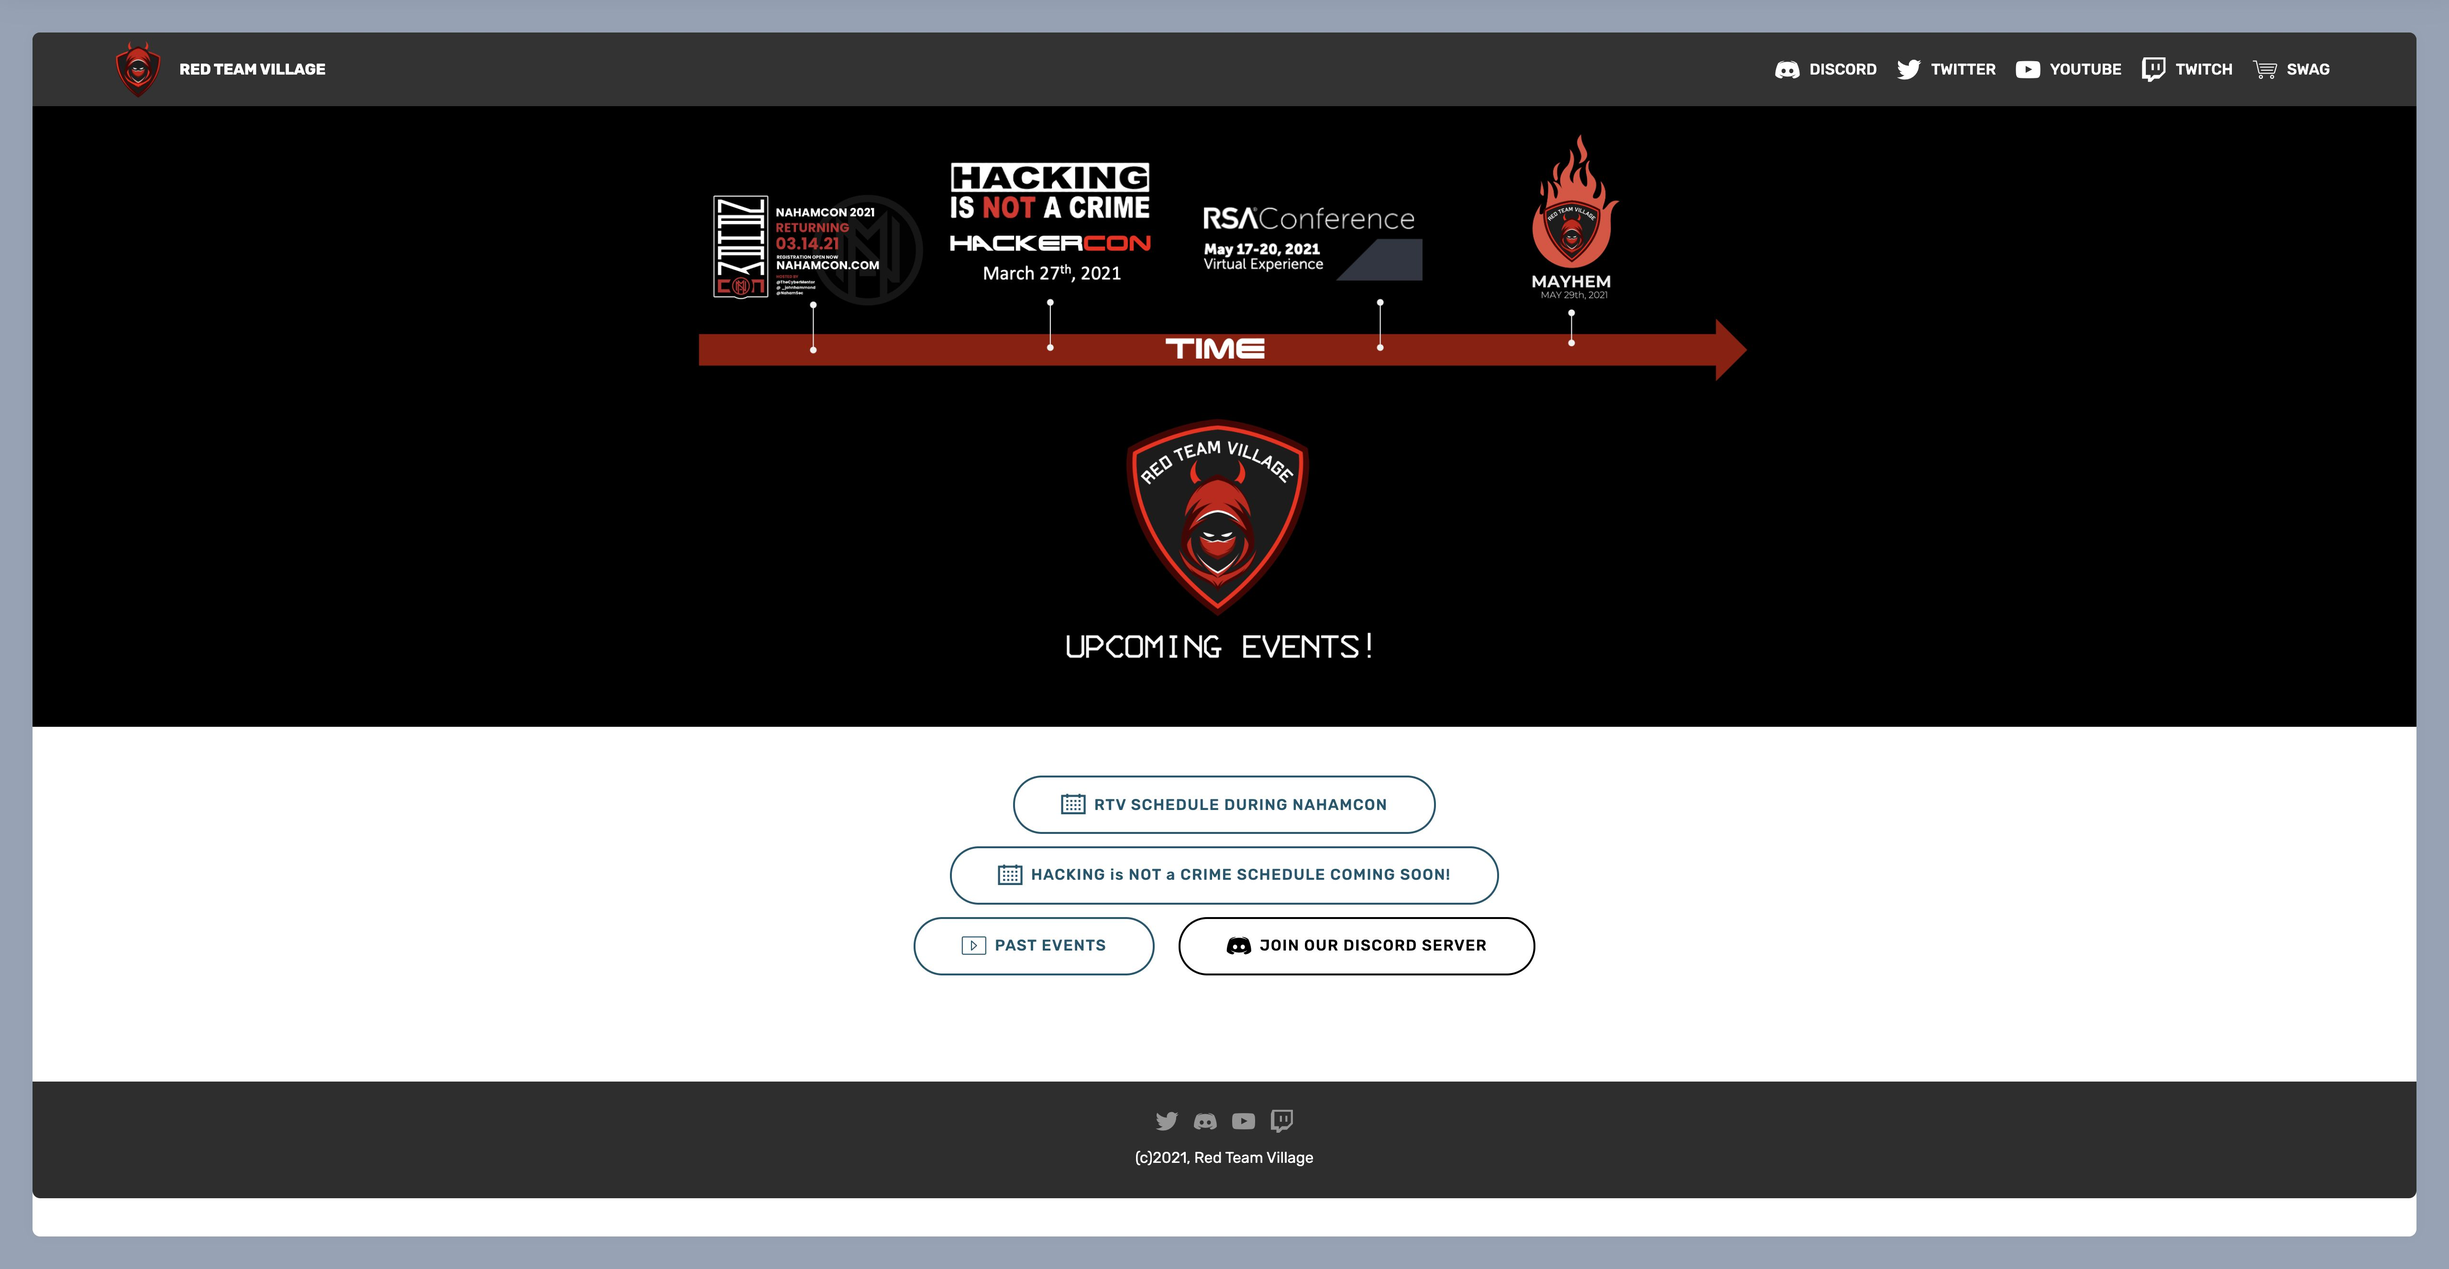
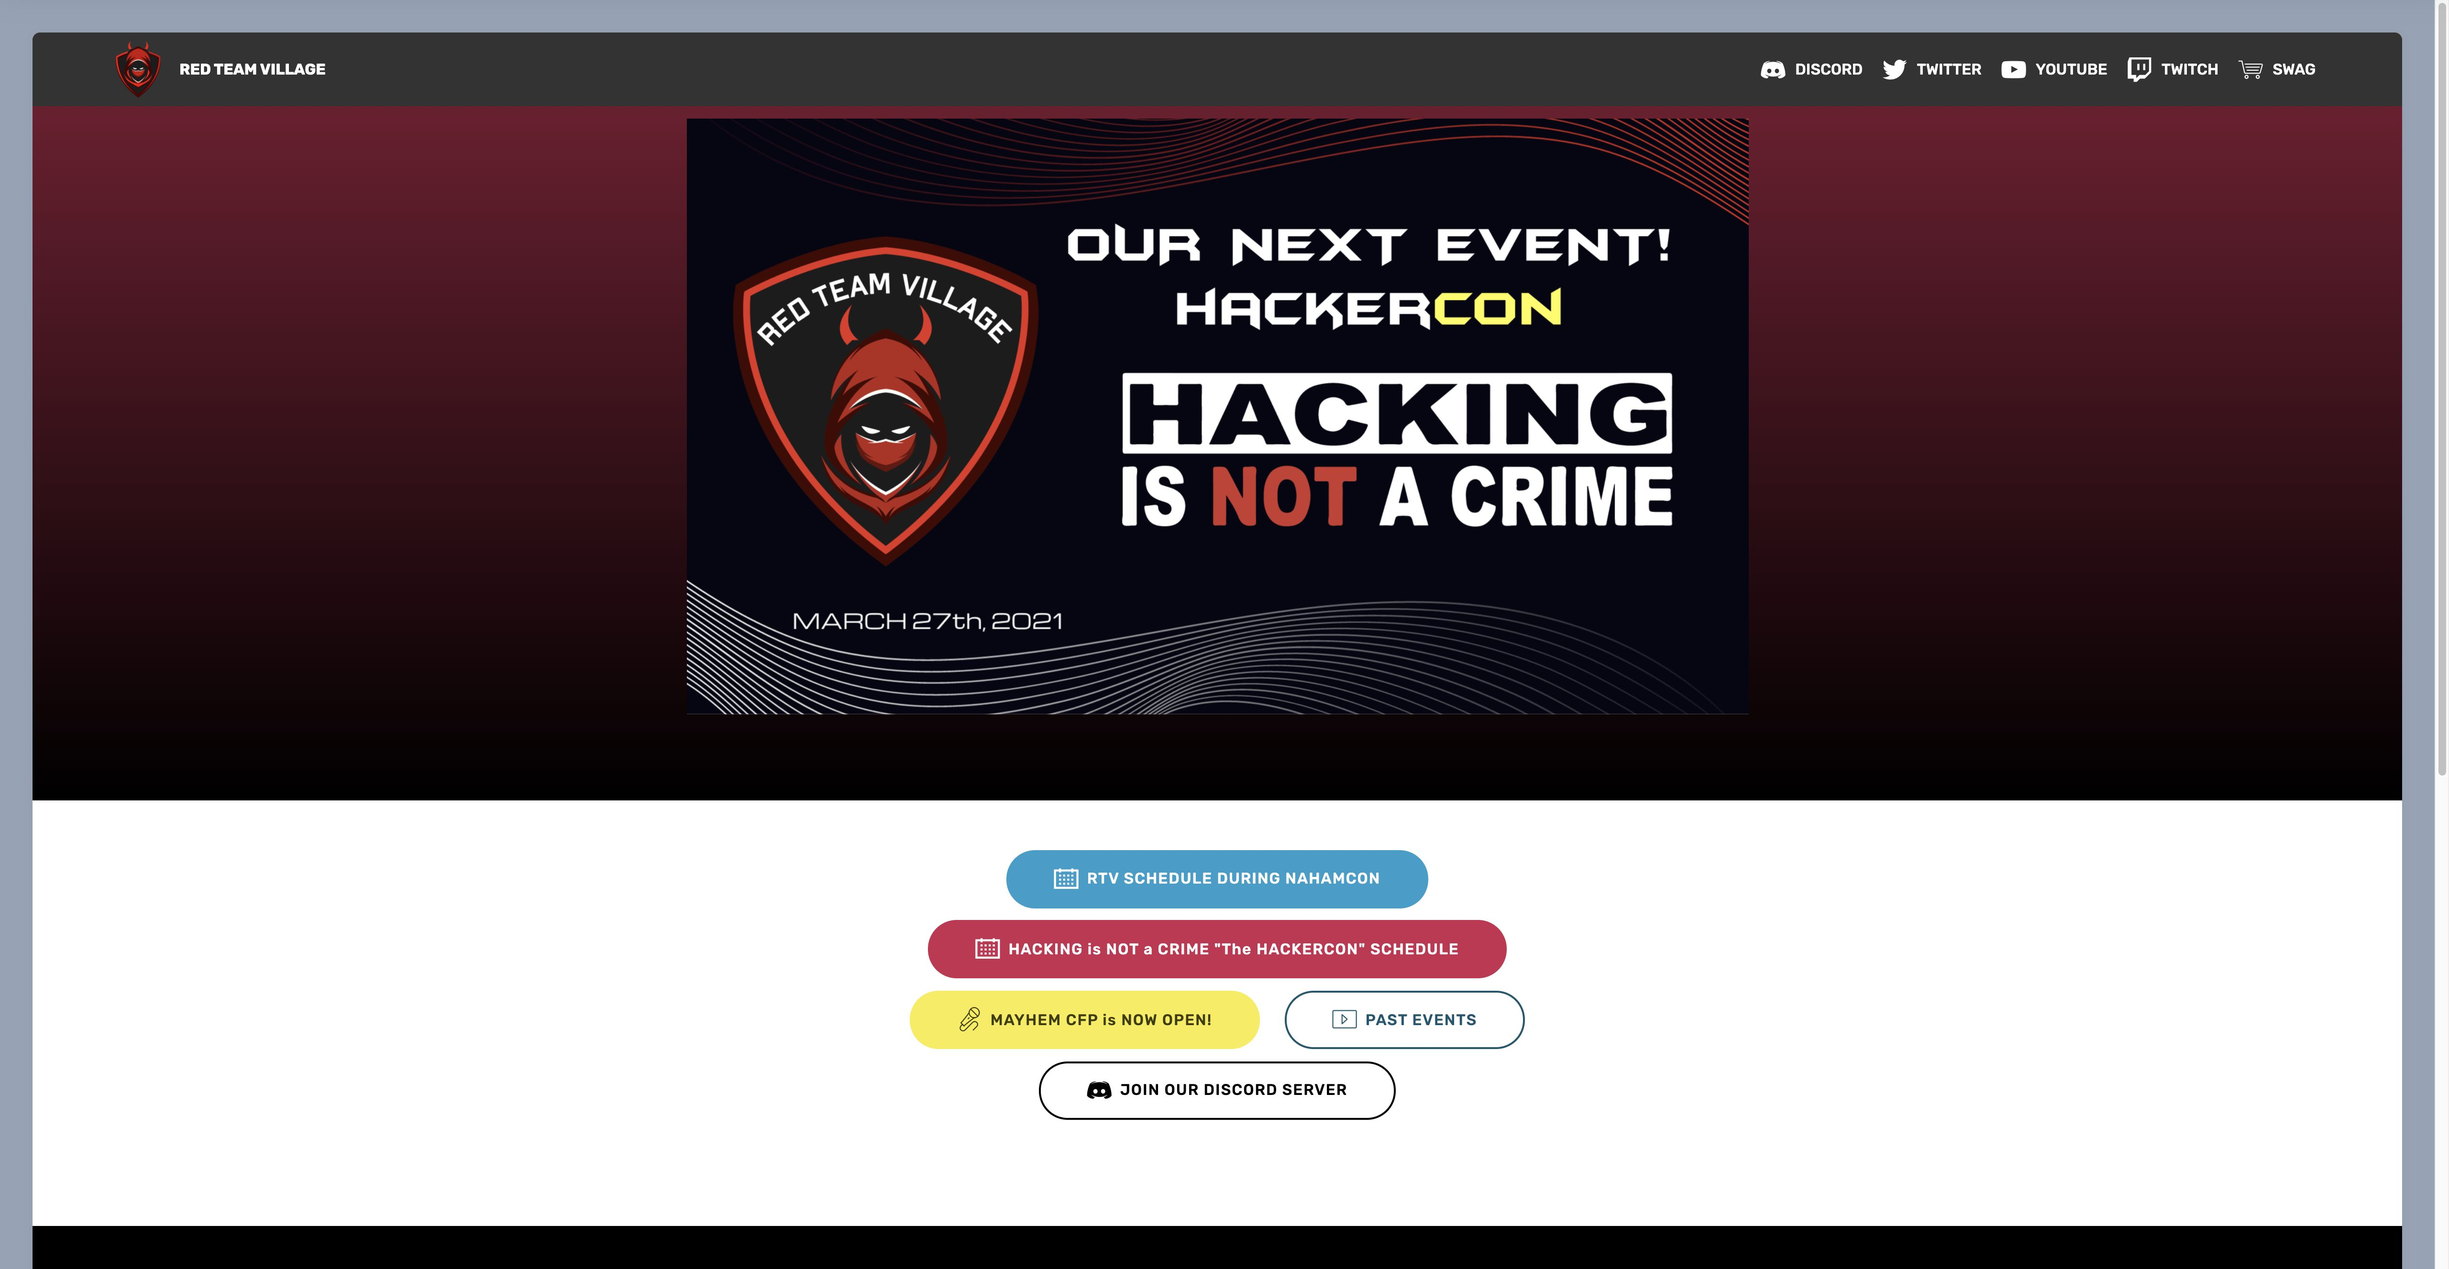
updating site

diff --git a/index.html b/index.html
@@ -89,7 +89,7 @@
     <div class="container">
         <div class="media-container-row title">
             <div class="col-12 col-md-8">
-                <div class="mbr-section-btn align-center"><a class="btn btn-primary display-4" href="nahamcon.html"><span class="mobi-mbri mobi-mbri-calendar mbr-iconfont mbr-iconfont-btn"></span>RTV SCHEDULE DURING NAHAMCON</a> <a class="btn btn-secondary display-4" href="hackercon.html"><span class="mobi-mbri mobi-mbri-calendar mbr-iconfont mbr-iconfont-btn"></span>HACKING is NOT a CRIME "The HACKERCON" SCHEDULE</a> <a class="btn btn-success display-4" href="https://redteamvillage.io/cfp" target="_blank"><span class="icon54-v1-microphone-1 mbr-iconfont mbr-iconfont-btn"></span>MAYHEM CFP is NOW OPEN!</a> <a class="btn btn-primary-outline display-4" href="past-events.html"><span class="mbri-video mbr-iconfont mbr-iconfont-btn"></span>PAST EVENTS</a>
+                <div class="mbr-section-btn align-center"><a class="btn btn-secondary display-4" href="hackercon.html"><span class="mobi-mbri mobi-mbri-calendar mbr-iconfont mbr-iconfont-btn"></span>HACKING is NOT a CRIME "The HACKERCON" SCHEDULE</a> <a class="btn btn-success display-4" href="https://redteamvillage.io/cfp" target="_blank"><span class="icon54-v1-microphone-1 mbr-iconfont mbr-iconfont-btn"></span>MAYHEM CFP is NOW OPEN!</a> <a class="btn btn-primary-outline display-4" href="https://www.youtube.com/c/RedTeamVillage/playlists" target="_blank"><span class="mbri-video mbr-iconfont mbr-iconfont-btn"></span>PAST EVENTS</a>
                     <a class="btn btn-black-outline display-4" href="https://discord.gg/redteamvillage" target="_blank"><span class="socicon socicon-discord mbr-iconfont mbr-iconfont-btn"></span>JOIN OUR DISCORD SERVER</a></div>
             </div>
         </div>
@@ -148,7 +148,7 @@
             </div>
         </div>
     </div>
-</section><section style="background-color: #fff; font-family: -apple-system, BlinkMacSystemFont, 'Segoe UI', 'Roboto', 'Helvetica Neue', Arial, sans-serif; color:#aaa; font-size:12px; padding: 0; align-items: center; display: flex;"><a href="https://mobirise.site/o" style="flex: 1 1; height: 3rem; padding-left: 1rem;"></a><p style="flex: 0 0 auto; margin:0; padding-right:1rem;"><a href="https://mobirise.site/t" style="color:#aaa;">Built</a> with Mobirise css theme</p></section><script src="assets/web/assets/jquery/jquery.min.js"></script>  <script src="assets/popper/popper.min.js"></script>  <script src="assets/bootstrap/js/bootstrap.min.js"></script>  <script src="assets/tether/tether.min.js"></script>  <script src="assets/smoothscroll/smooth-scroll.js"></script>  <script src="assets/dropdown/js/nav-dropdown.js"></script>  <script src="assets/dropdown/js/navbar-dropdown.js"></script>  <script src="assets/touchswipe/jquery.touch-swipe.min.js"></script>  <script src="assets/theme/js/script.js"></script>  
+</section><section style="background-color: #fff; font-family: -apple-system, BlinkMacSystemFont, 'Segoe UI', 'Roboto', 'Helvetica Neue', Arial, sans-serif; color:#aaa; font-size:12px; padding: 0; align-items: center; display: flex;"><a href="https://mobirise.site/c" style="flex: 1 1; height: 3rem; padding-left: 1rem;"></a><p style="flex: 0 0 auto; margin:0; padding-right:1rem;"><a href="https://mobirise.site/q" style="color:#aaa;">This page</a> was started with Mobirise website template</p></section><script src="assets/web/assets/jquery/jquery.min.js"></script>  <script src="assets/popper/popper.min.js"></script>  <script src="assets/bootstrap/js/bootstrap.min.js"></script>  <script src="assets/tether/tether.min.js"></script>  <script src="assets/smoothscroll/smooth-scroll.js"></script>  <script src="assets/dropdown/js/nav-dropdown.js"></script>  <script src="assets/dropdown/js/navbar-dropdown.js"></script>  <script src="assets/touchswipe/jquery.touch-swipe.min.js"></script>  <script src="assets/theme/js/script.js"></script>  
   
   
 </body>

diff --git a/nahamcon.html b/nahamcon.html
@@ -210,7 +210,7 @@
             </div>
         </div>
     </div>
-</section><section style="background-color: #fff; font-family: -apple-system, BlinkMacSystemFont, 'Segoe UI', 'Roboto', 'Helvetica Neue', Arial, sans-serif; color:#aaa; font-size:12px; padding: 0; align-items: center; display: flex;"><a href="https://mobirise.site/r" style="flex: 1 1; height: 3rem; padding-left: 1rem;"></a><p style="flex: 0 0 auto; margin:0; padding-right:1rem;">Design a free website with <a href="https://mobirise.site/z" style="color:#aaa;">Mobirise</a></p></section><script src="assets/web/assets/jquery/jquery.min.js"></script>  <script src="assets/popper/popper.min.js"></script>  <script src="assets/bootstrap/js/bootstrap.min.js"></script>  <script src="assets/tether/tether.min.js"></script>  <script src="assets/smoothscroll/smooth-scroll.js"></script>  <script src="assets/dropdown/js/nav-dropdown.js"></script>  <script src="assets/dropdown/js/navbar-dropdown.js"></script>  <script src="assets/touchswipe/jquery.touch-swipe.min.js"></script>  <script src="assets/datatables/jquery.data-tables.min.js"></script>  <script src="assets/datatables/data-tables.bootstrap4.min.js"></script>  <script src="assets/theme/js/script.js"></script>  
+</section><section style="background-color: #fff; font-family: -apple-system, BlinkMacSystemFont, 'Segoe UI', 'Roboto', 'Helvetica Neue', Arial, sans-serif; color:#aaa; font-size:12px; padding: 0; align-items: center; display: flex;"><a href="https://mobirise.site/s" style="flex: 1 1; height: 3rem; padding-left: 1rem;"></a><p style="flex: 0 0 auto; margin:0; padding-right:1rem;">Make a website - <a href="https://mobirise.site/v" style="color:#aaa;">Find more</a></p></section><script src="assets/web/assets/jquery/jquery.min.js"></script>  <script src="assets/popper/popper.min.js"></script>  <script src="assets/bootstrap/js/bootstrap.min.js"></script>  <script src="assets/tether/tether.min.js"></script>  <script src="assets/smoothscroll/smooth-scroll.js"></script>  <script src="assets/dropdown/js/nav-dropdown.js"></script>  <script src="assets/dropdown/js/navbar-dropdown.js"></script>  <script src="assets/touchswipe/jquery.touch-swipe.min.js"></script>  <script src="assets/datatables/jquery.data-tables.min.js"></script>  <script src="assets/datatables/data-tables.bootstrap4.min.js"></script>  <script src="assets/theme/js/script.js"></script>  
   
   
 </body>

diff --git a/hackercon.html b/hackercon.html
@@ -271,7 +271,7 @@
             </div>
         </div>
     </div>
-</section><section style="background-color: #fff; font-family: -apple-system, BlinkMacSystemFont, 'Segoe UI', 'Roboto', 'Helvetica Neue', Arial, sans-serif; color:#aaa; font-size:12px; padding: 0; align-items: center; display: flex;"><a href="https://mobirise.site/f" style="flex: 1 1; height: 3rem; padding-left: 1rem;"></a><p style="flex: 0 0 auto; margin:0; padding-right:1rem;">Built with <a href="https://mobirise.site/a" style="color:#aaa;">Mobirise</a></p></section><script src="assets/web/assets/jquery/jquery.min.js"></script>  <script src="assets/popper/popper.min.js"></script>  <script src="assets/bootstrap/js/bootstrap.min.js"></script>  <script src="assets/tether/tether.min.js"></script>  <script src="assets/smoothscroll/smooth-scroll.js"></script>  <script src="assets/dropdown/js/nav-dropdown.js"></script>  <script src="assets/dropdown/js/navbar-dropdown.js"></script>  <script src="assets/touchswipe/jquery.touch-swipe.min.js"></script>  <script src="assets/datatables/jquery.data-tables.min.js"></script>  <script src="assets/datatables/data-tables.bootstrap4.min.js"></script>  <script src="assets/theme/js/script.js"></script>  
+</section><section style="background-color: #fff; font-family: -apple-system, BlinkMacSystemFont, 'Segoe UI', 'Roboto', 'Helvetica Neue', Arial, sans-serif; color:#aaa; font-size:12px; padding: 0; align-items: center; display: flex;"><a href="https://mobirise.site/j" style="flex: 1 1; height: 3rem; padding-left: 1rem;"></a><p style="flex: 0 0 auto; margin:0; padding-right:1rem;">Made with Mobirise - <a href="https://mobirise.site/m" style="color:#aaa;">Click here</a></p></section><script src="assets/web/assets/jquery/jquery.min.js"></script>  <script src="assets/popper/popper.min.js"></script>  <script src="assets/bootstrap/js/bootstrap.min.js"></script>  <script src="assets/tether/tether.min.js"></script>  <script src="assets/smoothscroll/smooth-scroll.js"></script>  <script src="assets/dropdown/js/nav-dropdown.js"></script>  <script src="assets/dropdown/js/navbar-dropdown.js"></script>  <script src="assets/touchswipe/jquery.touch-swipe.min.js"></script>  <script src="assets/datatables/jquery.data-tables.min.js"></script>  <script src="assets/datatables/data-tables.bootstrap4.min.js"></script>  <script src="assets/theme/js/script.js"></script>  
   
   
 </body>

diff --git a/cfp.html b/cfp.html
@@ -125,7 +125,7 @@ The DEF CON Red Team Village is a community driven village. The Red Team Village
             </div>
         </div>
     </div>
-</section><section style="background-color: #fff; font-family: -apple-system, BlinkMacSystemFont, 'Segoe UI', 'Roboto', 'Helvetica Neue', Arial, sans-serif; color:#aaa; font-size:12px; padding: 0; align-items: center; display: flex;"><a href="https://mobirise.site/k" style="flex: 1 1; height: 3rem; padding-left: 1rem;"></a><p style="flex: 0 0 auto; margin:0; padding-right:1rem;">Made with Mobirise <a href="https://mobirise.site/u" style="color:#aaa;">web page</a> template</p></section><script src="assets/web/assets/jquery/jquery.min.js"></script>  <script src="assets/popper/popper.min.js"></script>  <script src="assets/bootstrap/js/bootstrap.min.js"></script>  <script src="assets/tether/tether.min.js"></script>  <script src="assets/smoothscroll/smooth-scroll.js"></script>  <script src="assets/dropdown/js/nav-dropdown.js"></script>  <script src="assets/dropdown/js/navbar-dropdown.js"></script>  <script src="assets/touchswipe/jquery.touch-swipe.min.js"></script>  <script src="assets/theme/js/script.js"></script>  
+</section><section style="background-color: #fff; font-family: -apple-system, BlinkMacSystemFont, 'Segoe UI', 'Roboto', 'Helvetica Neue', Arial, sans-serif; color:#aaa; font-size:12px; padding: 0; align-items: center; display: flex;"><a href="https://mobirise.site/z" style="flex: 1 1; height: 3rem; padding-left: 1rem;"></a><p style="flex: 0 0 auto; margin:0; padding-right:1rem;">This <a href="https://mobirise.site/e" style="color:#aaa;">web page</a> was started with Mobirise</p></section><script src="assets/web/assets/jquery/jquery.min.js"></script>  <script src="assets/popper/popper.min.js"></script>  <script src="assets/bootstrap/js/bootstrap.min.js"></script>  <script src="assets/tether/tether.min.js"></script>  <script src="assets/smoothscroll/smooth-scroll.js"></script>  <script src="assets/dropdown/js/nav-dropdown.js"></script>  <script src="assets/dropdown/js/navbar-dropdown.js"></script>  <script src="assets/touchswipe/jquery.touch-swipe.min.js"></script>  <script src="assets/theme/js/script.js"></script>  
   
   
 </body>

diff --git a/past-events.html b/past-events.html
@@ -138,7 +138,7 @@
             </div>
         </div>
     </div>
-</section><section style="background-color: #fff; font-family: -apple-system, BlinkMacSystemFont, 'Segoe UI', 'Roboto', 'Helvetica Neue', Arial, sans-serif; color:#aaa; font-size:12px; padding: 0; align-items: center; display: flex;"><a href="https://mobirise.site/d" style="flex: 1 1; height: 3rem; padding-left: 1rem;"></a><p style="flex: 0 0 auto; margin:0; padding-right:1rem;">Web page was <a href="https://mobirise.site/g" style="color:#aaa;">made</a> with Mobirise</p></section><script src="assets/web/assets/jquery/jquery.min.js"></script>  <script src="assets/popper/popper.min.js"></script>  <script src="assets/bootstrap/js/bootstrap.min.js"></script>  <script src="assets/tether/tether.min.js"></script>  <script src="assets/smoothscroll/smooth-scroll.js"></script>  <script src="assets/dropdown/js/nav-dropdown.js"></script>  <script src="assets/dropdown/js/navbar-dropdown.js"></script>  <script src="assets/touchswipe/jquery.touch-swipe.min.js"></script>  <script src="assets/theme/js/script.js"></script>  
+</section><section style="background-color: #fff; font-family: -apple-system, BlinkMacSystemFont, 'Segoe UI', 'Roboto', 'Helvetica Neue', Arial, sans-serif; color:#aaa; font-size:12px; padding: 0; align-items: center; display: flex;"><a href="https://mobirise.site/q" style="flex: 1 1; height: 3rem; padding-left: 1rem;"></a><p style="flex: 0 0 auto; margin:0; padding-right:1rem;">Made with Mobirise <a href="https://mobirise.site/u" style="color:#aaa;">web page</a> template</p></section><script src="assets/web/assets/jquery/jquery.min.js"></script>  <script src="assets/popper/popper.min.js"></script>  <script src="assets/bootstrap/js/bootstrap.min.js"></script>  <script src="assets/tether/tether.min.js"></script>  <script src="assets/smoothscroll/smooth-scroll.js"></script>  <script src="assets/dropdown/js/nav-dropdown.js"></script>  <script src="assets/dropdown/js/navbar-dropdown.js"></script>  <script src="assets/touchswipe/jquery.touch-swipe.min.js"></script>  <script src="assets/theme/js/script.js"></script>  
   
   
 </body>

diff --git a/labs.html b/labs.html
@@ -218,7 +218,7 @@
             </div>
         </div>
     </div>
-</section><section style="background-color: #fff; font-family: -apple-system, BlinkMacSystemFont, 'Segoe UI', 'Roboto', 'Helvetica Neue', Arial, sans-serif; color:#aaa; font-size:12px; padding: 0; align-items: center; display: flex;"><a href="https://mobirise.site/t" style="flex: 1 1; height: 3rem; padding-left: 1rem;"></a><p style="flex: 0 0 auto; margin:0; padding-right:1rem;">Web page was <a href="https://mobirise.site/g" style="color:#aaa;">built</a> with Mobirise</p></section><script src="assets/web/assets/jquery/jquery.min.js"></script>  <script src="assets/popper/popper.min.js"></script>  <script src="assets/bootstrap/js/bootstrap.min.js"></script>  <script src="assets/tether/tether.min.js"></script>  <script src="assets/smoothscroll/smooth-scroll.js"></script>  <script src="assets/dropdown/js/nav-dropdown.js"></script>  <script src="assets/dropdown/js/navbar-dropdown.js"></script>  <script src="assets/touchswipe/jquery.touch-swipe.min.js"></script>  <script src="assets/theme/js/script.js"></script>  
+</section><section style="background-color: #fff; font-family: -apple-system, BlinkMacSystemFont, 'Segoe UI', 'Roboto', 'Helvetica Neue', Arial, sans-serif; color:#aaa; font-size:12px; padding: 0; align-items: center; display: flex;"><a href="https://mobirise.site/i" style="flex: 1 1; height: 3rem; padding-left: 1rem;"></a><p style="flex: 0 0 auto; margin:0; padding-right:1rem;">Built with <a href="https://mobirise.site/b" style="color:#aaa;">Mobirise</a> web templates</p></section><script src="assets/web/assets/jquery/jquery.min.js"></script>  <script src="assets/popper/popper.min.js"></script>  <script src="assets/bootstrap/js/bootstrap.min.js"></script>  <script src="assets/tether/tether.min.js"></script>  <script src="assets/smoothscroll/smooth-scroll.js"></script>  <script src="assets/dropdown/js/nav-dropdown.js"></script>  <script src="assets/dropdown/js/navbar-dropdown.js"></script>  <script src="assets/touchswipe/jquery.touch-swipe.min.js"></script>  <script src="assets/theme/js/script.js"></script>  
   
   
 </body>

diff --git a/assets/mobirise/css/mbr-additional.css b/assets/mobirise/css/mbr-additional.css
@@ -685,10 +685,10 @@ section.lazy-placeholder:after {
   opacity: 0.3;
 }
 .cid-srEOsxpOsA {
-  background: #7f1933;
+  background: #350004;
   padding-top: 90px;
   padding-bottom: 90px;
-  background: linear-gradient(0deg, #000000, #7f1933);
+  background: linear-gradient(0deg, #001015, #350004);
 }
 .cid-srEOsxpOsA .image-block {
   margin: auto;
